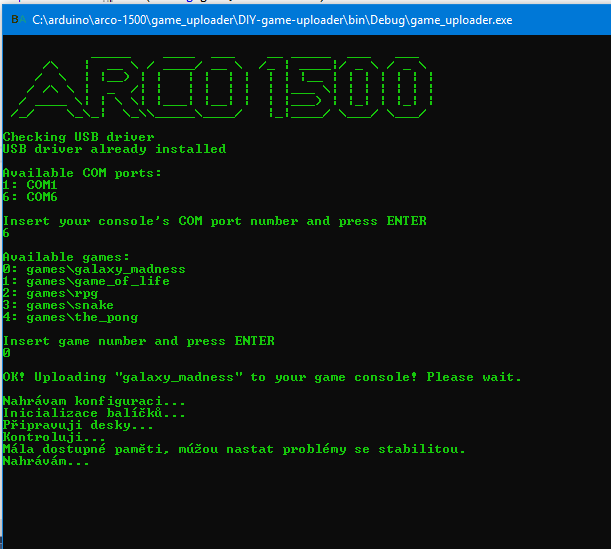
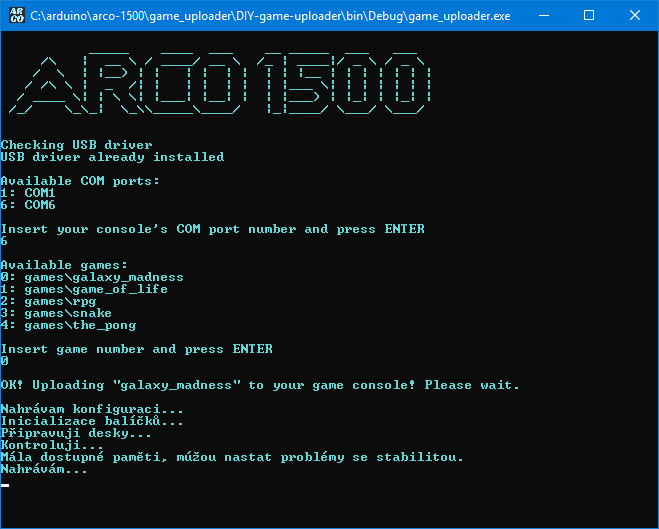
game uploader new colors and sounds 2

Changed region(s): [[0.0, 0.0, 1.0, 1.0], [0.3732, 0.7259, 0.6219, 0.7561], [0.653, 0.7259, 0.7774, 0.7561]]

diff --git a/game_uploader/DIY-game-uploader/Program.cs b/game_uploader/DIY-game-uploader/Program.cs
@@ -18,6 +18,9 @@ namespace DIY_game_uploader
 
         static void Main(string[] args)
         {
+            
+            Console.SetWindowSize(80, 40);
+            Console.SetBufferSize(80, 40);
             Console.ForegroundColor = ConsoleColor.Cyan;
             Console.Beep(1500, 500);
 

diff --git a/docs/play.md b/docs/play.md
@@ -14,7 +14,7 @@ This option is the fastest way to get games to your game handheld and play!!
 3. Connect your game console to PC
 4. Run game_uploader/game_uploader.exe
 
-<img src="{{ '/assets/images/arco-game-uploader.png' | prepend: site.baseurl }}">
+<img src="{{ '/assets/images/arco-game-uploader.png' | prepend: site.baseurl }}" class="img-responsive">
 
 ### B/ Using Arduino IDE
 

diff --git a/docs/make.md b/docs/make.md
@@ -7,4 +7,4 @@ layout: default
 
 The setup is simple:
 
-<img src="{{ '/assets/images/arco-fritzing.png' | prepend: site.baseurl }}">
+<img src="{{ '/assets/images/arco-fritzing.png' | prepend: site.baseurl }}"  class="img-responsive">
